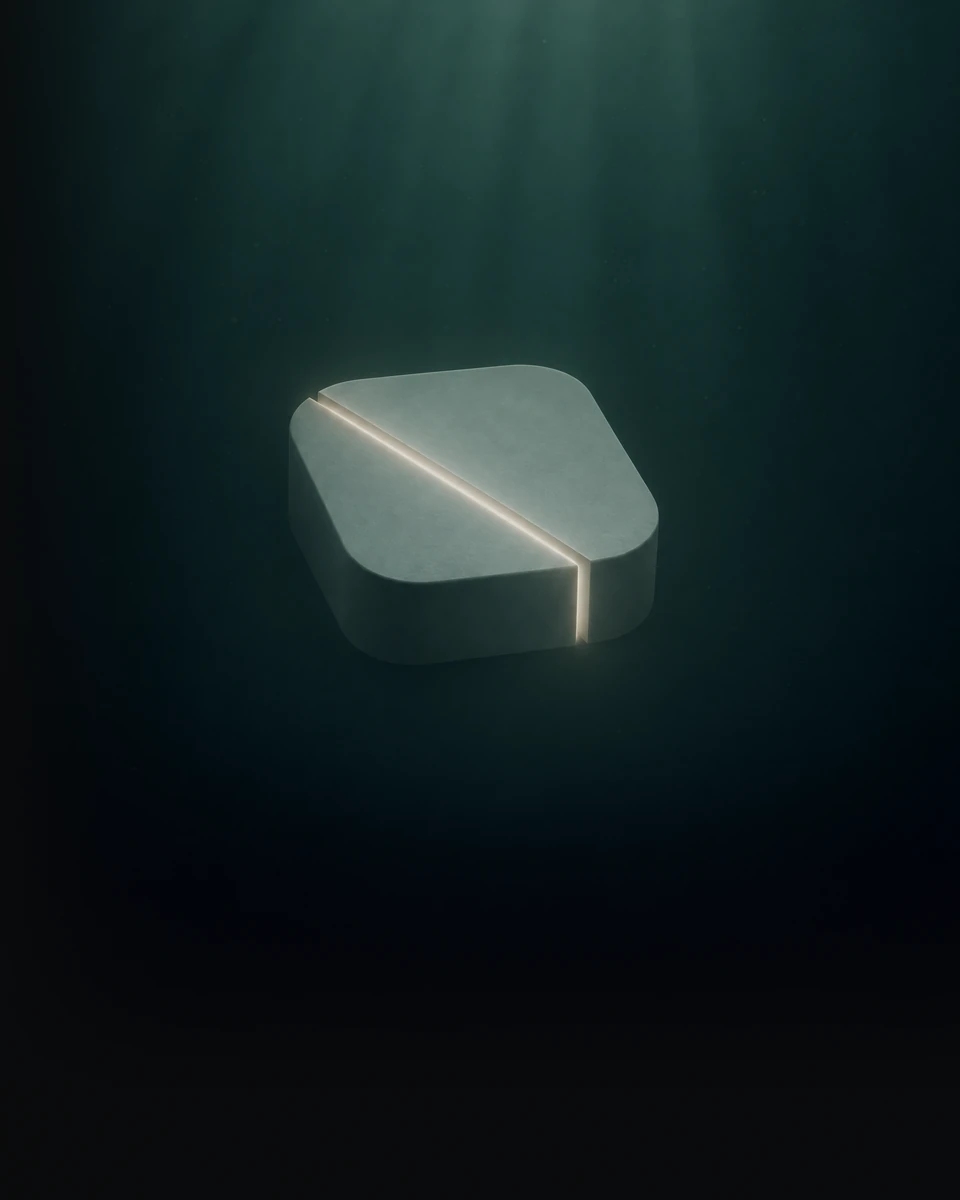
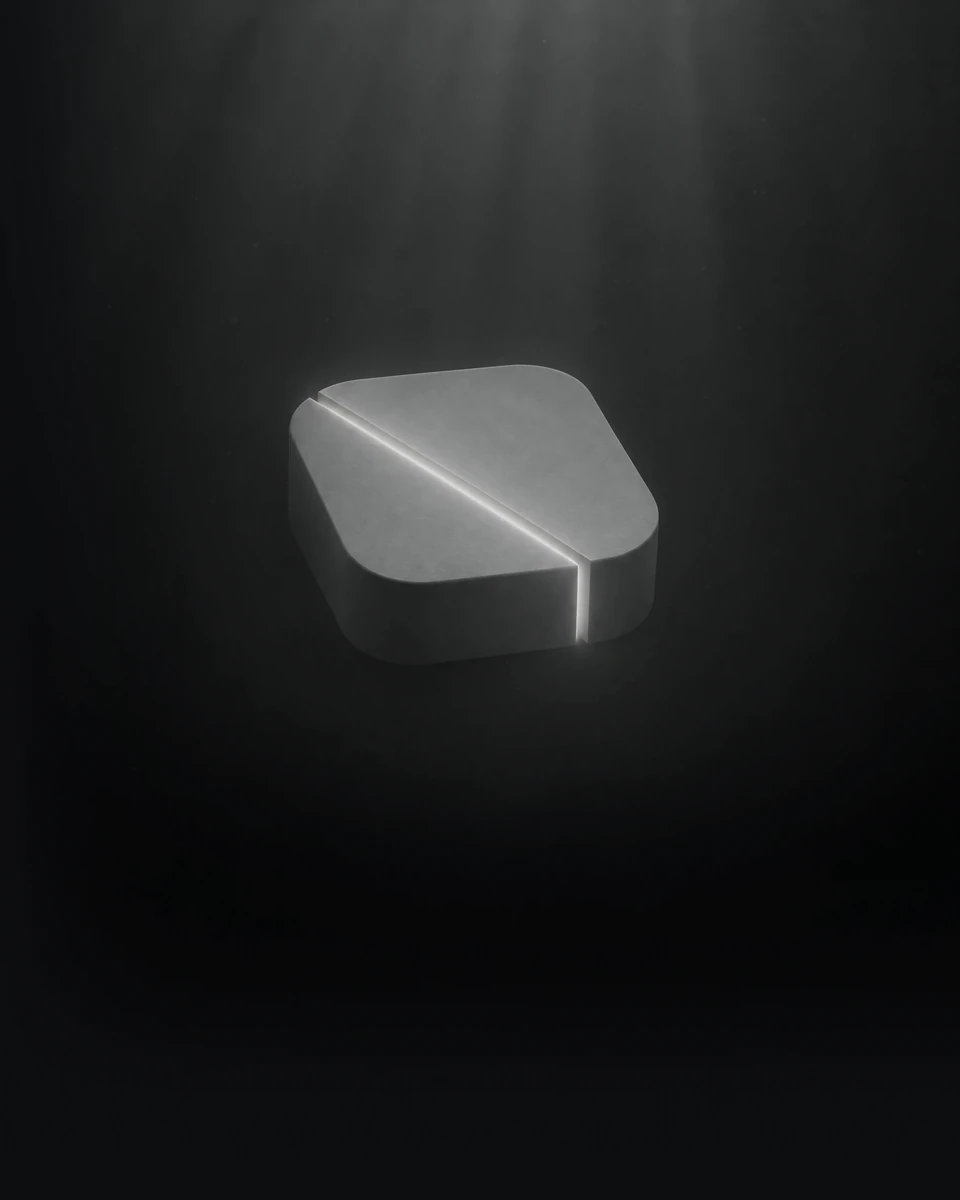
🎨 regrade the Deep water art to graphite
The sign-in illustration (B-017) and its empty-state crops were blue-green; every surface wears the panel's graphite. A deterministic regrade of the committed files, no generation: chroma x0.08, the fades retargeted from --side to --bg, and an alpha mask on the empty-state crops. The six auth targets are re-composited with it at their original placement, the tagline kept. The docs' copy (deep-water.webp) gets the same file.

Changed region(s): [[0.3125, 0.0, 0.8125, 0.2467]]

diff --git a/context/brand/scripts/sign-in-illustration.py b/context/brand/scripts/sign-in-illustration.py
@@ -17,6 +17,11 @@ new pixels are generated. The grade, in order:
 3. Bottom fade toward --side, from y 1437 to y 2045 at (t^1.6) x 0.92, held
    at 0.92 below. These are the rows the 1200x800 sign-in target shows.
 4. A fixed-seed dither of one level against banding in the dark water.
+
+The committed files carry one more step on top of this script's output: the
+graphite regrade of 2026-11-20 (chroma x 0.08, both fades retargeted to --bg
+#0D0E10), described under B-017 in context/brand/assets.md. Run alone, this
+script gives the earlier blue-green master.
 """
 
 import sys

diff --git a/context/brand/assets.md b/context/brand/assets.md
@@ -35,7 +35,7 @@ Every brand file ostra needs, so nothing is forgotten. Same rules as `context/fe
 | B-013 | Web manifest colours | `files/web/site.webmanifest`, with Abyss as `theme_color` and `background_color` | script | v1 | done |
 | B-014 | Open Graph image | `files/web/og-image.png` 1200×630, dark: the lockup, the headline and the proof line | script | v1 | done |
 | B-015 | Email logo | `files/web/email-logo@2x.png`, 400 px wide (shown at 200), the Abyss lockup for light email backgrounds. The needs-you mail's two lockups (`app-targets/m3/email-needs-you.md`), served by the panel from `apps/web/public/email/`: `logo-abyss@2x.png`, 186×40 (shown at 93×20), the Abyss lockup on a baked-in Shell `#F3F0E8` background so clients that invert colours never lose it, and its dark-mode twin `logo-shell@2x.png`, the Shell lockup on transparency. Both rendered from `files/logo/lockup-horizontal-*.svg` in headless Chromium, 2026-11-19 | script | v1 | done |
-| B-017 | Sign-in illustration | `files/web/sign-in-illustration.webp` 1792×2240 (the master, WebP quality 90) and `sign-in-illustration-1200.webp` 960×1200 (the app at 1×). The decorative right column of `/sign-in` and `/change-password` (`app-targets/m1/sign-in.md`): a machined matte stone in the Hinge's shape, split by a diagonal seam with Shell light inside, in deep blue-green water. Higgsfield `gpt_image_2_6`, 4:5, generation 3 of the "Deep water" direction; the maintainer chose it on 2026-11-19 from three directions (Strata, Deep water, Contour). Graded, not regenerated, by `scripts/sign-in-illustration.py`, which takes the raw generation (not committed): darkened ×0.87 so the form stays the brightest thing on the screen, a soft left-edge fade and a bottom fade into `--side` `#0A0B0C`, baked in | Higgsfield + script | v1 | done |
+| B-017 | Sign-in illustration | `files/web/sign-in-illustration.webp` 1792×2240 (the master, WebP quality 90) and `sign-in-illustration-1200.webp` 960×1200 (the app at 1×). The decorative right column of `/sign-in` and `/change-password` (`app-targets/m1/sign-in.md`): a machined matte stone in the Hinge's shape, split by a diagonal seam with Shell light inside, in deep blue-green water. Higgsfield `gpt_image_2_6`, 4:5, generation 3 of the "Deep water" direction; the maintainer chose it on 2026-11-19 from three directions (Strata, Deep water, Contour). Graded, not regenerated, by `scripts/sign-in-illustration.py`, which takes the raw generation (not committed): darkened ×0.87 so the form stays the brightest thing on the screen, a soft left-edge fade and a bottom fade into `--side` `#0A0B0C`, baked in. **Regraded to the panel's graphite on 2026-11-20** (it was blue-green), from the committed master, with no new pixels: chroma ×0.08 (sharp `modulate({ saturation: 0.08 })`, the empty-state art's grade), the two fades retargeted from `--side` to `--bg` `#0D0E10` with the script's own masks, the last rows below the bottom fade eased the rest of the way so the bottom row is `--bg`, and the same one-level dither. The same file is `apps/web/public/` (sign-in, change-password, accept-invite, reset) and `apps/docs/public/deep-water.webp` (the docs' home and search). The empty-state crops (`app-targets/m2/inbox-empty-illustration.webp`, `app-targets/m4/search-empty-illustration.webp`, and their `apps/web/public/` copies) have the same chroma grade plus an elliptical alpha mask, opaque to 55% of the radius and clear at the edge, so they melt into any page | Higgsfield + script | v1 | done |
 
 ## Inside the tools ostra plugs into
 

diff --git a/context/brand/app-targets/m1/sign-in.md b/context/brand/app-targets/m1/sign-in.md
@@ -54,10 +54,10 @@ The form column is a flex column with three rows: a top row (32px inset), a midd
 
 ### The illustration (decorative)
 
-A machined, matte stone in the shape of the Hinge, split by a diagonal seam with Shell light inside, in deep blue-green water. It's a picture, not markup, and it carries no information, so screen readers skip it.
+A machined, matte stone in the shape of the Hinge, split by a diagonal seam with light inside, in deep water, graded to the panel's neutral graphite (2026-11-20; it was blue-green). It's a picture, not markup, and it carries no information, so screen readers skip it.
 
 - **The file:** `../../files/web/sign-in-illustration.webp` (1792×2240) and `sign-in-illustration-1200.webp` (960×1200). Copy both to `apps/web/public/`, served as `/sign-in-illustration.webp` and `/sign-in-illustration-1200.webp`.
-- **The fades are baked in.** The asset already carries its grade: darkened so the form stays the brightest thing on the screen, a soft fade into `--side` along its left edge (so it meets the hairline as graphite, not as a teal panel), and the bottom fade the tagline sits on. The build adds no CSS gradients, overlays or filters.
+- **The fades are baked in.** The asset already carries its grade: darkened so the form stays the brightest thing on the screen, its colour taken down to graphite, a soft fade into `--bg` along its left edge (so it meets the hairline as graphite, not as a panel of its own), and the bottom fade the tagline sits on, which ends on `--bg`. The build adds no CSS gradients, overlays or filters.
 - **The column:** `position: relative; overflow: hidden; background: var(--side)`. The background only shows while the image loads.
 - **The image fills the column:** `object-fit: cover; object-position: 50% 8%`. At 1200×800 the column is about 705px wide, the image scales to about 705×881 and loses 7px at the top and 74px at the bottom, which puts the stone's centre at about x 843, y 367 of the viewport, beside the form. On a wider column the crop takes more off the bottom, the darkest part, and the stone sits lower (its centre about 60% down at 1920×1080), still well clear of the tagline. On a narrower, taller one the crop takes the sides instead, and the stone stays whole and centred.
 - **As Next code:** `<Image src="/sign-in-illustration.webp" alt="" aria-hidden fill sizes="60vw" className="object-cover object-[50%_8%]" />`. Without the image optimizer, a plain `<img alt="" aria-hidden="true" loading="lazy">` with `srcset="/sign-in-illustration-1200.webp 960w, /sign-in-illustration.webp 1792w"` and `sizes="60vw"`, or a CSS `background: var(--side) url(/sign-in-illustration-1200.webp) 50% 8% / cover no-repeat`, gives the same picture.
@@ -103,7 +103,7 @@ Copy comes from `apps/web/messages/en.json` (`signIn.*`). Two keys change, `sign
 | Token | Hex | Used for |
 |---|---|---|
 | `--bg` | `#0D0E10` | form column |
-| `--side` | `#0A0B0C` | illustration column, under the image (the asset's fades end in it) |
+| `--side` | `#0A0B0C` | illustration column, under the image (the asset's fades end in `--bg`, since 2026-11-20) |
 | `--surface` | `#131416` | input fill |
 | `--line` | `#1F2023` | column hairline |
 | `--line-2` | `#2A2C30` | input border |

diff --git a/context/brand/app-targets/m1/README.md b/context/brand/app-targets/m1/README.md
@@ -12,6 +12,8 @@ They were made image first with the `ui-taste` skill on Higgsfield `gpt_image_2_
 
 **Status:** the maintainer approved every target on 2026-11-19, `sign-in` and `change-password` included. Their right column, first a dimmed task mock, is now a brand illustration ("the sign in page requires a proper illustration on the right"): the maintainer chose "Deep water" from three directions (Strata, Deep water, Contour) the same day, and both pictures show it composited in. The file is `../../files/web/sign-in-illustration.webp` (B-017 in `../../assets.md`), and `sign-in.md` says how to build the column. No screen is rebuilt to its target before it's approved (`../../app-design.md`, and the UI process in `AGENTS.md`).
 
+**Moved to the panel's graphite theme, 2026-11-20:** `sign-in` and `change-password` re-composited with the regraded Deep water picture (chroma ×0.08, its fades ending on `--bg`; B-017 in `../../assets.md`), at the placement they were first composited at, the tagline kept. The picture was blue-green; every surface wears the panel's graphite. The panel's own copies in `apps/web/public/` are the same files.
+
 ## Screens
 
 | Screen | Route | Target |
